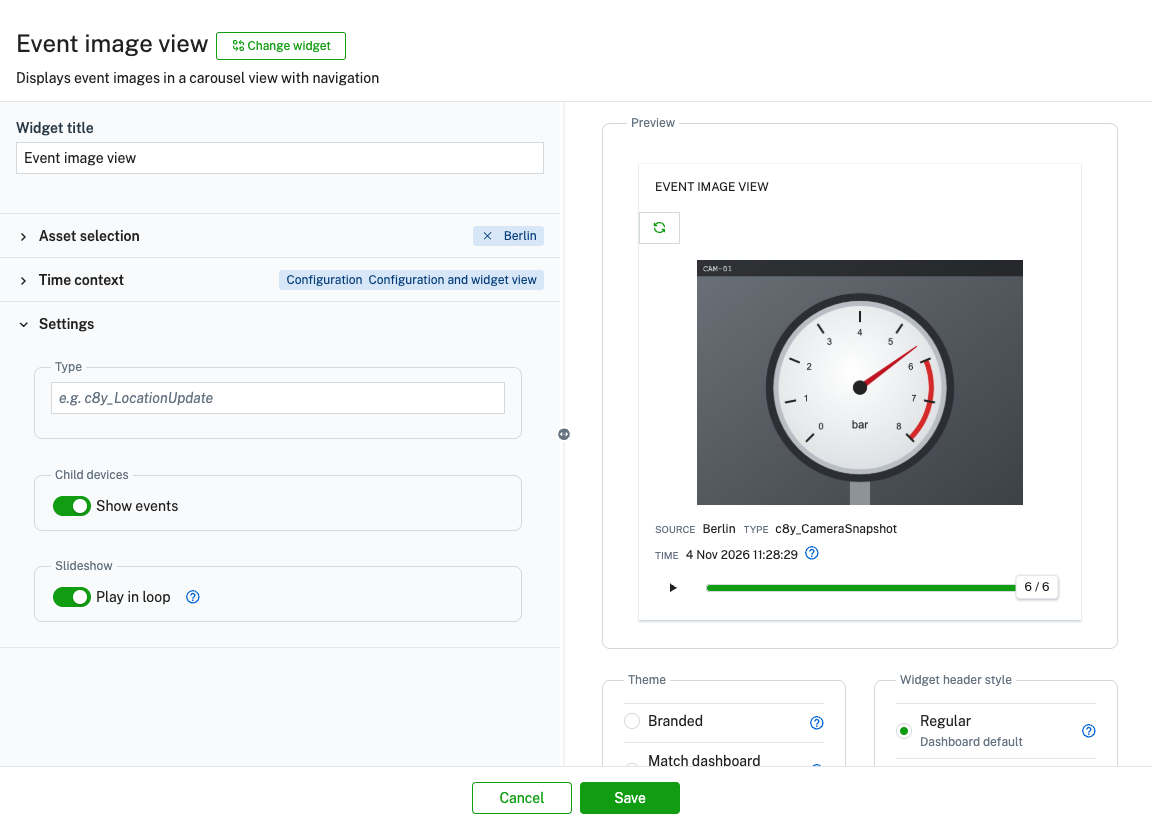
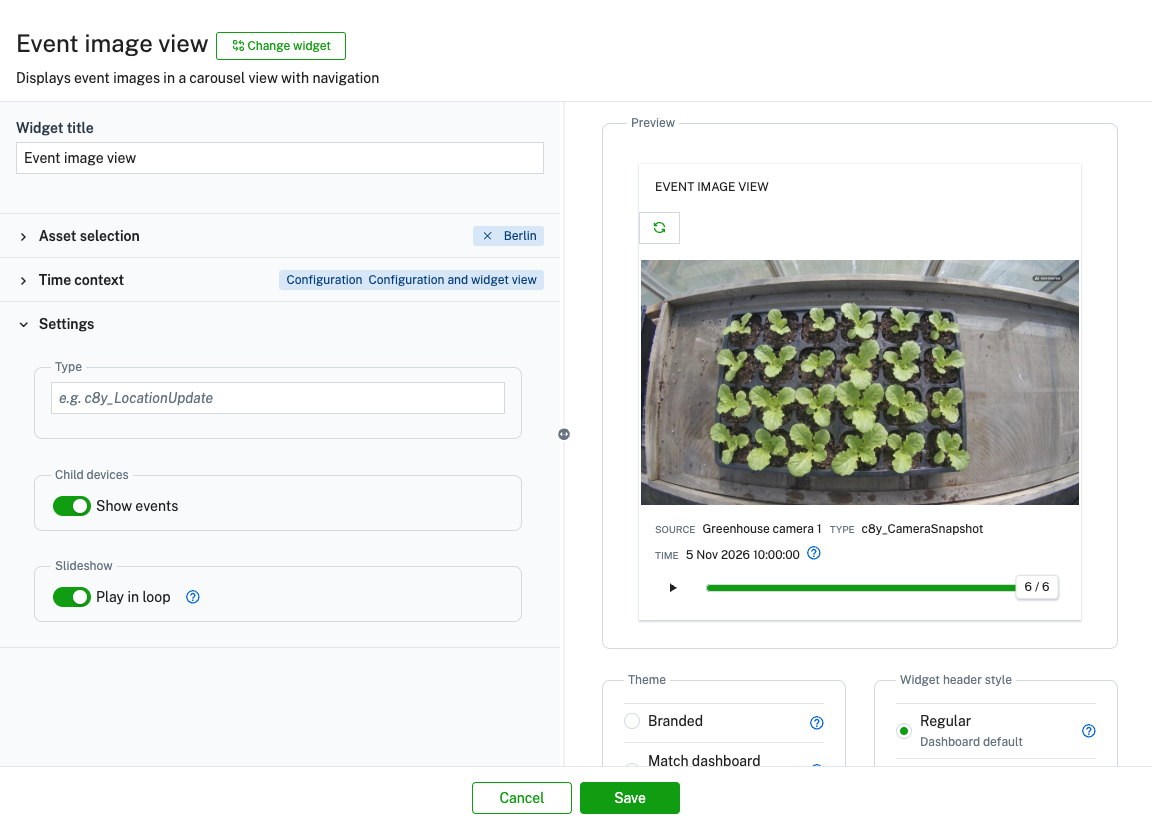
[MTM-66153] Use greenhouse camera images in the Event image view screenshots
The screenshots now show AI-generated camera images of a seedling tray instead of synthetic pressure gauges, which looked like a widget themselves. The alt text states that the images are AI-generated.

Changed region(s): [[0.5312, 0.3012, 0.9375, 0.6928]]

diff --git a/content/cockpit/widgets-collection.md b/content/cockpit/widgets-collection.md
@@ -191,7 +191,7 @@ Additionally, a specific date range can be set and the events can be monitored i
 
 The "Event image view" widget shows the images attached to the events of a selected device or group, for example, camera snapshots. Below the image, the widget shows the source, the type, and the time of the event.
 
-![Event image view widget](/images/users-guide/cockpit/cockpit-widget-event-image-view.png)
+![Event image view widget showing an AI-generated camera image of a seedling tray](/images/users-guide/cockpit/cockpit-widget-event-image-view.png)
 
 If the widget loads more than one image, use the slider to move between the images. The newest image is at the right end of the slider. The counter shows the position of the current image and the number of loaded images.
 
@@ -210,7 +210,7 @@ Otherwise, click **Download** in the widget header to download the current image
 
 **Parameters to configure**
 
-![Event image view widget configuration](/images/users-guide/cockpit/cockpit-widget-event-image-view-config.png)
+![Event image view widget configuration with an AI-generated camera image in the preview](/images/users-guide/cockpit/cockpit-widget-event-image-view-config.png)
 
 | Field           | Description                                                                                                                                                                                                          |
 | :-------------- | :------------------------------------------------------------------------------------------------------------------------------------------------------------------------------------------------------------------- |
